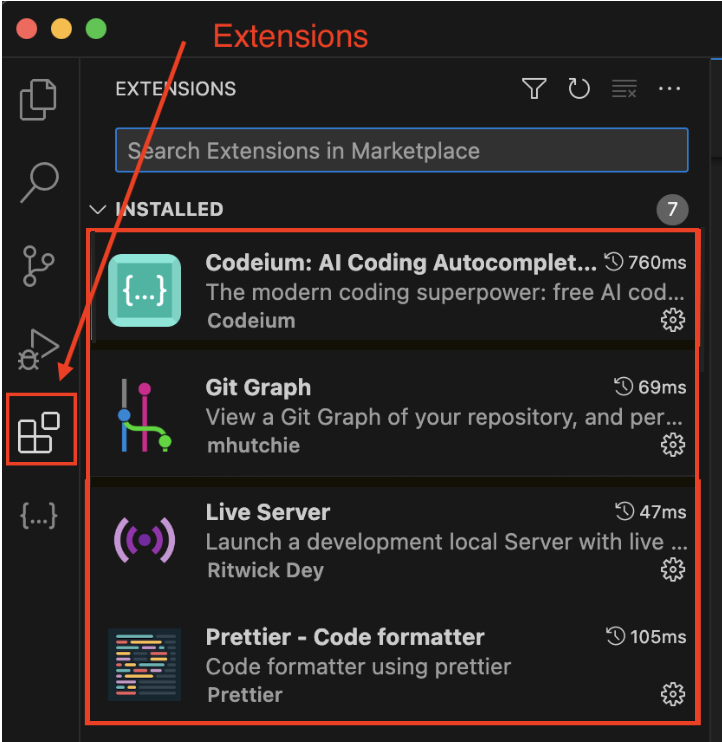
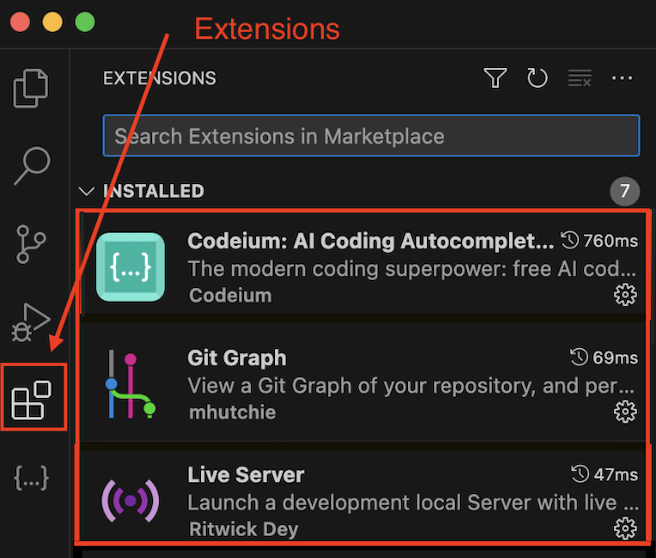
Neuerungen

Changed region(s): [[0.0, 0.0305, 1.0, 1.0], [0.0, 0.0, 0.1524, 0.0609], [0.9756, 0.0609, 1.0, 0.0914]]

diff --git a/README.md b/README.md
@@ -8,7 +8,7 @@ Dafür müssen Sie aber zunächst VS Code installieren:
 
 > [Link für Installation](https://code.visualstudio.com)
 
-Öffnen Sie nach der Installation das Programm. Am linken Rand von VS-Code finden Sie das Menü Extensions. Suchen Sie dort nach den **Extensions** *Codeium, Git Graph, LiveServer* sowie *Prettier* und installieren Sie sie.
+Öffnen Sie nach der Installation das Programm. Am linken Rand von VS-Code finden Sie das Menü Extensions. Suchen Sie dort nach den **Extensions** *Codeium, Git Graph* sowie *LiveServer* und installieren Sie sie.
 
 ![](extensions.png)
 
